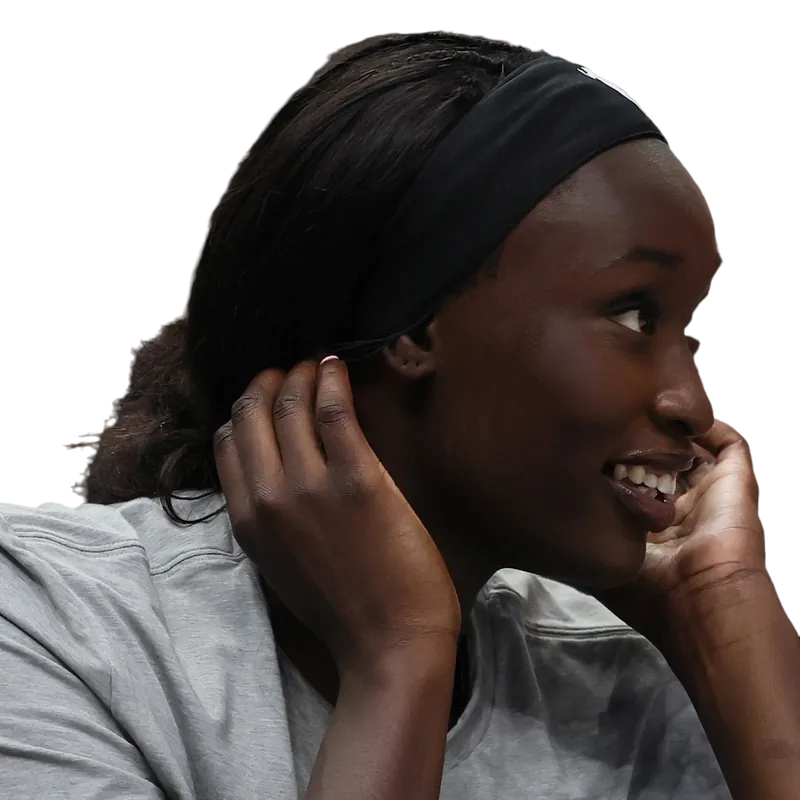
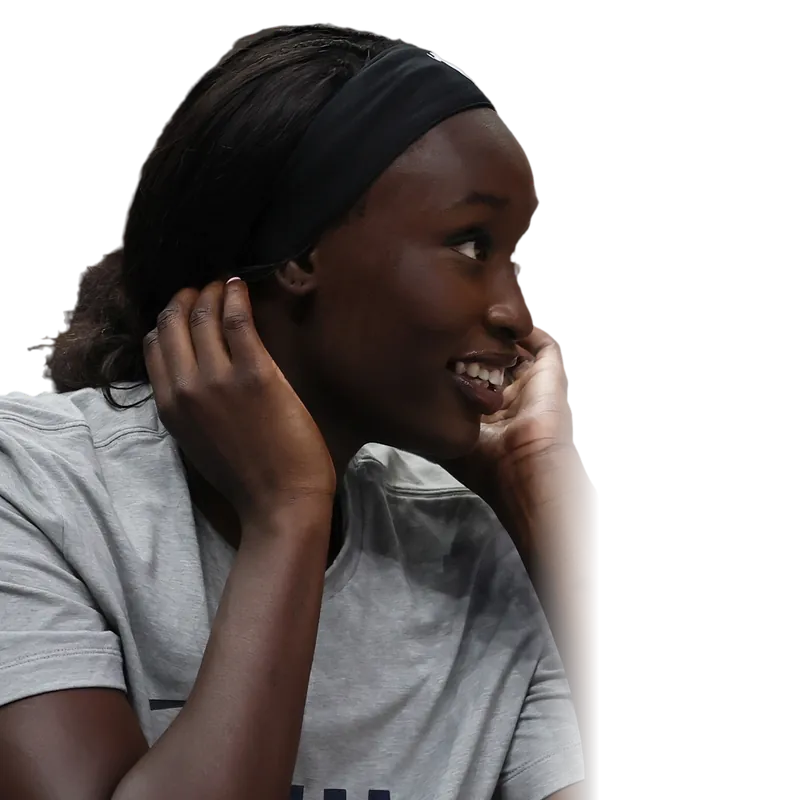
Recenter Nyadiew Puoch headshot so her face shows on mobile

diff --git a/wnba/nyadiew-puoch/index.html b/wnba/nyadiew-puoch/index.html
@@ -19,7 +19,7 @@
 })();
 </script>
 <script async src="https://pagead2.googlesyndication.com/pagead/js/adsbygoogle.js?client=ca-pub-6621195315204235" crossorigin="anonymous"></script>
-<meta name="viewport" content="width=device-width,initial-scale=1"><title>Nyadiew Puoch WNBA stats and profile | Full Court Buckets</title><meta name="description" content="Nyadiew Puoch WNBA season statistics, regular-season records, team information and recent game logs. Seasons on record: 2026. Updated by Full Court Buckets."><meta name="robots" content="index,follow,max-image-preview:large"><link rel="canonical" href="https://fullcourtbuckets.com/wnba/nyadiew-puoch/"><link rel="icon" href="/favicon.svg"><meta name="theme-color" content="#ffffff"><link rel="preconnect" href="https://fonts.googleapis.com"><link rel="preconnect" href="https://fonts.gstatic.com" crossorigin><link href="https://fonts.googleapis.com/css2?family=Barlow+Condensed:wght@500;600;700;800;900&amp;family=Inter:wght@400;500;600;700;800&amp;display=swap" rel="stylesheet"><link rel="stylesheet" href="/wnba/assets/players.css"><link rel="stylesheet" href="/assets/site-nav.css"><script type="application/ld+json">{"@context": "https://schema.org", "@graph": [{"@type": "Person", "@id": "https://fullcourtbuckets.com/wnba/nyadiew-puoch/#player", "name": "Nyadiew Puoch", "url": "https://fullcourtbuckets.com/wnba/nyadiew-puoch/", "image": {"@type": "ImageObject", "contentUrl": "https://fullcourtbuckets.com/images/players/nyadiew-puoch/portrait.webp?v=5027f9c03f29", "caption": "Nyadiew Puoch", "width": 800, "height": 800, "creditText": "John Mac via Wikimedia Commons", "license": "https://creativecommons.org/licenses/by-sa/4.0/", "acquireLicensePage": "https://commons.wikimedia.org/wiki/File:Nyadiew_Puoch_2026_(cropped).jpg"}}, {"@type": "WebPage", "name": "Nyadiew Puoch WNBA stats and profile | Full Court Buckets", "url": "https://fullcourtbuckets.com/wnba/nyadiew-puoch/", "about": {"@id": "https://fullcourtbuckets.com/wnba/nyadiew-puoch/#player"}, "dateModified": "2026-10-29"}, {"@type": "BreadcrumbList", "itemListElement": [{"@type": "ListItem", "position": 1, "name": "Home", "item": "https://fullcourtbuckets.com/"}, {"@type": "ListItem", "position": 2, "name": "Players", "item": "https://fullcourtbuckets.com/wnba/"}, {"@type": "ListItem", "position": 3, "name": "Nyadiew Puoch", "item": "https://fullcourtbuckets.com/wnba/nyadiew-puoch/"}]}, {"@type": "FAQPage", "@id": "https://fullcourtbuckets.com/wnba/nyadiew-puoch/#faq", "mainEntity": [{"@type": "Question", "name": "What are Nyadiew Puoch's stats?", "acceptedAnswer": {"@type": "Answer", "text": "In the 2026 regular season, Nyadiew Puoch averaged 4.3 points, 2.2 rebounds, and 0.8 assists in 42 games for the Portland Fire."}}, {"@type": "Question", "name": "What WNBA team does Nyadiew Puoch play for?", "acceptedAnswer": {"@type": "Answer", "text": "Nyadiew Puoch plays for the Portland Fire. The Atlanta Dream drafted her 12th overall in 2024, and Portland selected her in the 2026 WNBA Expansion Draft and signed her on April 11, 2026. She appeared in 42 games with 28 starts for Portland in 2026 and scored a career-high 19 points against Seattle on August 8."}}, {"@type": "Question", "name": "How tall is Nyadiew Puoch?", "acceptedAnswer": {"@type": "Answer", "text": "The WNBA lists Nyadiew Puoch at 6 feet 3 inches and 167 pounds."}}, {"@type": "Question", "name": "What position does Nyadiew Puoch play?", "acceptedAnswer": {"@type": "Answer", "text": "Nyadiew Puoch is a forward. She is from Australia, where she played for the Southside Flyers, Dandenong Rangers and UC Capitals."}}]}]}</script><script src="/assets/site-nav.js" defer></script><script src="/wnba/assets/players.js" defer></script><link rel="alternate" type="application/rss+xml" title="Full Court Buckets" href="https://fullcourtbuckets.com/feed.xml"><link rel="preconnect" href="https://fonts.googleapis.com"><link rel="preconnect" href="https://fonts.gstatic.com" crossorigin><link href="https://fonts.googleapis.com/css2?family=Barlow:wght@500;600;700;800&family=Inter:wght@400;500;600;700&display=swap" rel="stylesheet"><meta name="p:domain_verify" content="31768ba4e5e82ef772093f8a448d1884"/><link rel="icon" href="/favicon.ico" sizes="48x48"><link rel="icon" type="image/png" sizes="32x32" href="/favicon-32.png"><link rel="apple-touch-icon" href="/apple-touch-icon.png"><link rel="manifest" href="/site.webmanifest"><style id="fcb-shared-player-layout">/* Show the full illustration, including shoulders and upper chest. Keep the original gradient, circles and outline number. */
+<meta name="viewport" content="width=device-width,initial-scale=1"><title>Nyadiew Puoch WNBA stats and profile | Full Court Buckets</title><meta name="description" content="Nyadiew Puoch WNBA season statistics, regular-season records, team information and recent game logs. Seasons on record: 2026. Updated by Full Court Buckets."><meta name="robots" content="index,follow,max-image-preview:large"><link rel="canonical" href="https://fullcourtbuckets.com/wnba/nyadiew-puoch/"><link rel="icon" href="/favicon.svg"><meta name="theme-color" content="#ffffff"><link rel="preconnect" href="https://fonts.googleapis.com"><link rel="preconnect" href="https://fonts.gstatic.com" crossorigin><link href="https://fonts.googleapis.com/css2?family=Barlow+Condensed:wght@500;600;700;800;900&amp;family=Inter:wght@400;500;600;700;800&amp;display=swap" rel="stylesheet"><link rel="stylesheet" href="/wnba/assets/players.css"><link rel="stylesheet" href="/assets/site-nav.css"><script type="application/ld+json">{"@context": "https://schema.org", "@graph": [{"@type": "Person", "@id": "https://fullcourtbuckets.com/wnba/nyadiew-puoch/#player", "name": "Nyadiew Puoch", "url": "https://fullcourtbuckets.com/wnba/nyadiew-puoch/", "image": {"@type": "ImageObject", "contentUrl": "https://fullcourtbuckets.com/images/players/nyadiew-puoch/portrait.webp?v=2d0341a515d8", "caption": "Nyadiew Puoch", "width": 800, "height": 800, "creditText": "John Mac via Wikimedia Commons", "license": "https://creativecommons.org/licenses/by-sa/4.0/", "acquireLicensePage": "https://commons.wikimedia.org/wiki/File:Nyadiew_Puoch_2026_(cropped).jpg"}}, {"@type": "WebPage", "name": "Nyadiew Puoch WNBA stats and profile | Full Court Buckets", "url": "https://fullcourtbuckets.com/wnba/nyadiew-puoch/", "about": {"@id": "https://fullcourtbuckets.com/wnba/nyadiew-puoch/#player"}, "dateModified": "2026-10-29"}, {"@type": "BreadcrumbList", "itemListElement": [{"@type": "ListItem", "position": 1, "name": "Home", "item": "https://fullcourtbuckets.com/"}, {"@type": "ListItem", "position": 2, "name": "Players", "item": "https://fullcourtbuckets.com/wnba/"}, {"@type": "ListItem", "position": 3, "name": "Nyadiew Puoch", "item": "https://fullcourtbuckets.com/wnba/nyadiew-puoch/"}]}, {"@type": "FAQPage", "@id": "https://fullcourtbuckets.com/wnba/nyadiew-puoch/#faq", "mainEntity": [{"@type": "Question", "name": "What are Nyadiew Puoch's stats?", "acceptedAnswer": {"@type": "Answer", "text": "In the 2026 regular season, Nyadiew Puoch averaged 4.3 points, 2.2 rebounds, and 0.8 assists in 42 games for the Portland Fire."}}, {"@type": "Question", "name": "What WNBA team does Nyadiew Puoch play for?", "acceptedAnswer": {"@type": "Answer", "text": "Nyadiew Puoch plays for the Portland Fire. The Atlanta Dream drafted her 12th overall in 2024, and Portland selected her in the 2026 WNBA Expansion Draft and signed her on April 11, 2026. She appeared in 42 games with 28 starts for Portland in 2026 and scored a career-high 19 points against Seattle on August 8."}}, {"@type": "Question", "name": "How tall is Nyadiew Puoch?", "acceptedAnswer": {"@type": "Answer", "text": "The WNBA lists Nyadiew Puoch at 6 feet 3 inches and 167 pounds."}}, {"@type": "Question", "name": "What position does Nyadiew Puoch play?", "acceptedAnswer": {"@type": "Answer", "text": "Nyadiew Puoch is a forward. She is from Australia, where she played for the Southside Flyers, Dandenong Rangers and UC Capitals."}}]}]}</script><script src="/assets/site-nav.js" defer></script><script src="/wnba/assets/players.js" defer></script><link rel="alternate" type="application/rss+xml" title="Full Court Buckets" href="https://fullcourtbuckets.com/feed.xml"><link rel="preconnect" href="https://fonts.googleapis.com"><link rel="preconnect" href="https://fonts.gstatic.com" crossorigin><link href="https://fonts.googleapis.com/css2?family=Barlow:wght@500;600;700;800&family=Inter:wght@400;500;600;700&display=swap" rel="stylesheet"><meta name="p:domain_verify" content="31768ba4e5e82ef772093f8a448d1884"/><link rel="icon" href="/favicon.ico" sizes="48x48"><link rel="icon" type="image/png" sizes="32x32" href="/favicon-32.png"><link rel="apple-touch-icon" href="/apple-touch-icon.png"><link rel="manifest" href="/site.webmanifest"><style id="fcb-shared-player-layout">/* Show the full illustration, including shoulders and upper chest. Keep the original gradient, circles and outline number. */
 .fcb-player-compact .hero-main{grid-template-columns:55% 45%;min-height:0}
 .fcb-player-compact .hero-copy{padding-top:30px;padding-bottom:30px}
 .fcb-player-compact .hero-art.portrait-art{position:relative;inset:auto;margin:0;display:block;opacity:1;pointer-events:auto;background:transparent;min-height:0;min-width:0;padding:0;overflow:hidden;isolation:isolate}
@@ -116,4 +116,4 @@ html body .portrait-art .card-credit{position:absolute;left:0;right:0;bottom:6px
  .has-player-portrait .metric{padding-top:12px;padding-bottom:12px}
  .has-player-portrait .stat-context{padding-top:8px;padding-bottom:8px}
 }
-@media(prefers-reduced-motion:reduce){.portrait-art *{animation:none!important;transition:none!important}}</style><style id="fcb-photo-credit">.photo-credit{font-size:11px;line-height:1.4;color:inherit;opacity:.8}.photo-credit a{color:inherit;text-decoration:underline}</style></head><body><a class="skip" href="#content">Skip to content</a><header class="site-header"><div class="site-bar"><a class="site-brand" href="/" aria-label="Full Court Buckets home"><picture><source srcset="/logo.svg" type="image/svg+xml"><source srcset="/logo-c.webp" type="image/webp"><img src="/logo-c.png" alt="Full Court Buckets" width="480" height="416" decoding="async" fetchpriority="high"></picture></a><div class="site-tools"><div class="site-search"><button type="button" class="site-search-toggle" aria-expanded="false" aria-controls="site-search-panel" aria-keyshortcuts="/"><span class="site-search-icon" aria-hidden="true"></span><span class="site-search-label">Search</span></button><div class="site-search-panel" id="site-search-panel" hidden><form role="search" action="/search/"><label class="site-search-field">Search Full Court Buckets<input type="search" name="q" placeholder="Players, teams, owners, stories" autocomplete="off" spellcheck="false" role="combobox" aria-autocomplete="list" aria-expanded="false" aria-controls="site-search-list"></label></form><p class="site-search-status" role="status"></p><p class="ss-dym" hidden>Did you mean <a href="/search/"></a>?</p><ul class="site-search-results" id="site-search-list" role="listbox"></ul><a class="ss-all" href="/search/" hidden>See all results</a></div><template id="site-search-item"><li class="ss-item" role="option"><a class="ss-link"><span class="ss-thumb"><img alt="" width="48" height="27" loading="lazy" decoding="async"></span><span class="ss-text"><span class="site-search-title"></span><span class="ss-snippet"></span><span class="site-search-kind"></span></span></a></li></template><template id="site-search-group"><li class="ss-group" role="presentation"></li></template><template id="site-search-mark"><mark></mark></template></div><nav class="site-nav" aria-label="Main"><button type="button" class="site-nav-toggle" aria-expanded="false" aria-controls="site-nav-menu"><span class="site-nav-bars" aria-hidden="true"></span><span class="site-nav-toggle-label">Menu</span></button><ul id="site-nav-menu"><li><a href="/">Home</a></li><li><a href="/news/">News</a></li><li class="site-nav-playoffs"><a href="/news/wnba-finals-2026-schedule-dream-valkyries/">Playoffs</a></li><li class="site-nav-branch"><a href="/wnba/">Players</a><button type="button" class="site-nav-subtoggle" aria-expanded="false" aria-controls="site-nav-sub-players" data-section="Players"><span class="site-nav-chevron" aria-hidden="true"></span><span class="site-nav-subtoggle-label">Show Players menu</span></button><ul id="site-nav-sub-players"><li><a href="/wnba/">Player index, A to Z</a></li><li><a href="/wnba/aja-wilson/">A&#x27;ja Wilson</a></li><li><a href="/wnba/caitlin-clark/">Caitlin Clark</a></li><li><a href="/wnba/angel-reese/">Angel Reese</a></li><li><a href="/wnba/paige-bueckers/">Paige Bueckers</a></li><li><a href="/wnba/breanna-stewart/">Breanna Stewart</a></li><li><a href="/wnba/sabrina-ionescu/">Sabrina Ionescu</a></li></ul></li><li class="site-nav-branch"><a href="/wnba/teams/">Teams</a><button type="button" class="site-nav-subtoggle" aria-expanded="false" aria-controls="site-nav-sub-teams" data-section="Teams"><span class="site-nav-chevron" aria-hidden="true"></span><span class="site-nav-subtoggle-label">Show Teams menu</span></button><ul id="site-nav-sub-teams"><li><a href="/wnba/teams/atlanta-dream/">Atlanta Dream</a></li><li><a href="/wnba/teams/chicago-sky/">Chicago Sky</a></li><li><a href="/wnba/teams/connecticut-sun/">Connecticut Sun</a></li><li><a href="/wnba/teams/dallas-wings/">Dallas Wings</a></li><li><a href="/wnba/teams/golden-state-valkyries/">Golden State Valkyries</a></li><li><a href="/wnba/teams/indiana-fever/">Indiana Fever</a></li><li><a href="/wnba/teams/las-vegas-aces/">Las Vegas Aces</a></li><li><a href="/wnba/teams/los-angeles-sparks/">Los Angeles Sparks</a></li><li><a href="/wnba/teams/minnesota-lynx/">Minnesota Lynx</a></li><li><a href="/wnba/teams/new-york-liberty/">New York Liberty</a></li><li><a href="/wnba/teams/phoenix-mercury/">Phoenix Mercury</a></li><li><a href="/wnba/teams/portland-fire/">Portland Fire</a></li><li><a href="/wnba/teams/seattle-storm/">Seattle Storm</a></li><li><a href="/wnba/teams/toronto-tempo/">Toronto Tempo</a></li><li><a href="/wnba/teams/washington-mystics/">Washington Mystics</a></li></ul></li><li><a href="/standings/">Standings</a></li><li><a href="/wnba/data/">Data &amp; research</a></li><li class="site-nav-branch"><a href="/about/">About</a><button type="button" class="site-nav-subtoggle" aria-expanded="false" aria-controls="site-nav-sub-about" data-section="About"><span class="site-nav-chevron" aria-hidden="true"></span><span class="site-nav-subtoggle-label">Show About menu</span></button><ul id="site-nav-sub-about"><li><a href="/methods/">How we calculate</a></li><li><a href="/contact/">Contact</a></li></ul></li></ul></nav></div></div></header><div class="ticker fcb-now" data-item-date="2026-11-10"><div class="shell ticker-shell"><div class="ticker-label">New</div><div class="ticker-text"><a href="/news/juste-jocyte-does-not-want-to-return-valkyries/">Juste Jocyte tells BasketNews she does not want to return to the Valkyries. BasketNews and LRT quote Jocyte saying she does not want to return to the Valkyries. Her first WNBA season was 16 games at 8.1 minutes.</a></div></div></div><main id="content" class="wrap"><div class="breadcrumbs"><a href="/">Home</a><span>/</span><a href="/wnba/">Players</a><span>/</span><span>Nyadiew Puoch</span></div><section class="hero has-player-portrait fcb-player-compact" aria-labelledby="player-name" data-name-size="normal"><div class="hero-main"><div class="hero-copy"><div class="hero-kicker"><span class="status">Listed active</span><span>WNBA PLAYER PROFILE</span></div><h1 id="player-name"><span>Nyadiew</span> <b class="gradient">Puoch</b></h1><p class="answer-summary">Nyadiew Puoch is a forward for the Portland Fire. In the 2026 season she averaged 4.3 points, 2.2 rebounds and 0.8 assists in 42 games.</p><p class="stats-updated">Stats updated October 29, 2026. Full Court Buckets gathers its own game data and verifies it.</p><p class="hero-meta">#13 / Forward / Portland Fire</p><div class="actions"><a class="button" href="#stats">View stats <span>→</span></a><button type="button" id="share" class="text-button js-only">Share ↑</button><span id="share-status" role="status"></span></div></div><!-- FCB:approved-portrait:start --><figure class="hero-art portrait-art" aria-label="Nyadiew Puoch"><div class="portrait-backdrop" aria-hidden="true"><span class="ghost-number">13</span></div><div class="portrait-crop"><img class="player-illustration" src="/images/players/nyadiew-puoch/portrait.webp?v=5027f9c03f29" alt="Nyadiew Puoch" width="800" height="800" fetchpriority="high" decoding="async"></div></figure><!-- FCB:approved-portrait:end --></div><div class="hero-stats"><div class="metric"><strong>4.3</strong><span>POINTS<small>PER GAME</small></span></div><div class="metric"><strong>0.8</strong><span>ASSISTS<small>PER GAME</small></span></div><div class="metric"><strong>2.2</strong><span>REBOUNDS<small>PER GAME</small></span></div><div class="stat-context"><b>2026 · regular season</b><span>Per-game averages</span></div></div></section><nav class="section-nav" aria-label="On this page"><a href="#stats">Stats</a><a href="#teammates">Teammates</a><a href="#overview">Overview</a><a href="#teams">Teams</a><a href="#sources">Sources</a></nav><div class="content-grid"><div><section class="section" id="stats"><p class="eyebrow">The numbers</p><h2>Season-by-season stats</h2><div class="filters js-only"><div class="segmented" role="group" aria-label="Competition"><button type="button" data-kind="2" aria-pressed="false">Regular season</button><button type="button" data-kind="all" aria-pressed="true">Both</button></div><label>Season <select id="season-filter"><option value="all">All seasons</option><option value="2026">2026</option></select></label></div><div class="competition" data-competition="2"><h3>Regular season</h3><div class="table-scroll" role="region" aria-label="Regular season season statistics" tabindex="0"><table><caption>Regular season: per-game averages, except games played and shooting percentages.</caption><thead><tr><th scope="col">YEAR</th><th scope="col">TEAM</th><th scope="col"><abbr title="Games played">GP</abbr></th><th scope="col"><abbr title="Minutes per game">MIN</abbr></th><th scope="col"><abbr title="Points per game">PTS</abbr></th><th scope="col"><abbr title="Rebounds per game">REB</abbr></th><th scope="col"><abbr title="Assists per game">AST</abbr></th><th scope="col"><abbr title="Steals per game">STL</abbr></th><th scope="col"><abbr title="Blocks per game">BLK</abbr></th><th scope="col"><abbr title="Turnovers per game">TO</abbr></th><th scope="col"><abbr title="Field goal percentage">FG%</abbr></th><th scope="col"><abbr title="Three-point percentage">3P%</abbr></th><th scope="col"><abbr title="Free throw percentage">FT%</abbr></th></tr></thead><tbody><tr data-season="2026"><th scope="row">2026</th><td class="team-cell">Portland Fire</td><td>42</td><td>18.5</td><td>4.3</td><td>2.2</td><td>0.8</td><td>0.7</td><td>0.1</td><td>0.6</td><td>36.6</td><td>24.4</td><td>63.9</td></tr></tbody></table></div></div><p id="stats-empty" class="muted" hidden>No records for this selection.</p><p class="muted small">Statistics since 2008. Each season stays with the team she played for that year. These figures are season averages, not a full career total.</p></section><p class="ai-note">Built by Full Court Buckets from game data we gather and verify ourselves. Profile text and FAQs drafted with AI tools and checked against the stats on this page. Portrait is a photograph. <span class="photo-credit">Photo: <a href="https://commons.wikimedia.org/wiki/File:Nyadiew_Puoch_2026_(cropped).jpg" rel="noopener" target="_blank">John Mac</a>, <a href="https://creativecommons.org/licenses/by-sa/4.0/" rel="license noopener" target="_blank">CC BY-SA 4.0</a>, via Wikimedia Commons, cropped, background removed.</span> <a href="/how-we-make-full-court-buckets/">How we make Full Court Buckets</a></p><section class="section" id="teammates"><p class="eyebrow">Same roster</p><h2>Teammates</h2><p>Some of the other players listed on this roster.</p><ul class="teammate-list"><li><a class="inline-link" href="/wnba/amy-okonkwo/">Amy Okonkwo</a></li><li><a class="inline-link" href="/wnba/bridget-carleton/">Bridget Carleton</a></li><li><a class="inline-link" href="/wnba/carla-leite/">Carla Leite</a></li><li><a class="inline-link" href="/wnba/charisma-osborne/">Charisma Osborne</a></li><li><a class="inline-link" href="/wnba/emily-engstler/">Emily Engstler</a></li><li><a class="inline-link" href="/wnba/frieda-buhner/">Frieda Buhner</a></li><li><a class="inline-link" href="/wnba/holly-winterburn/">Holly Winterburn</a></li></ul></section><section class="section" id="overview"><p class="eyebrow">Player overview</p><h2>Nyadiew Puoch</h2><p>Nyadiew Puoch averaged 4.3 points, 2.2 rebounds and 0.8 assists in 42 games in the 2026 regular season.</p><p class="muted">Current team: <strong><a class="inline-link" href="/wnba/teams/portland-fire/">Portland Fire</a></strong>.</p><h3>Career notes</h3><ul class="career-notes"><li>Nyadiew Puoch scored 181 points, 91 rebounds and 32 assists in 42 games for the Portland Fire in 2026. <a href="/data/wnba/players/nyadiew-puoch.json">Full Court Buckets season log</a>.</li><li>The 2026 regular season is the only regular-season line for Nyadiew Puoch in the Full Court Buckets season log. <a href="/data/wnba/players/nyadiew-puoch.json">Full Court Buckets season log</a>.</li></ul><div class="overview-strip"><div><b>1</b><span>Regular seasons on record</span></div><div><b>2026</b><span>Available statistical years</span></div></div></section><section class="section" id="teams"><p class="eyebrow">Team records</p><h2>Teams by season</h2><p class="muted small">The team she played for in each season. This is not every roster move.</p><ul class="timeline"><li><strong>2026</strong><span>Portland Fire</span></li></ul></section></div><aside><section class="side-card"><p class="eyebrow">The essentials</p><h2>Player details</h2><dl><div><dt>Roster</dt><dd>On the current roster</dd></div><div><dt>Records available</dt><dd>2026</dd></div><div><dt>Current team</dt><dd>Portland Fire</dd></div><div><dt>Position</dt><dd>F</dd></div><div><dt>Height</dt><dd>6&#x27; 3&quot;</dd></div><div><dt>Jersey number</dt><dd>13</dd></div></dl></section><section class="freshness"><p class="eyebrow">Page status</p><h3>Last updated</h3><p>October 29, 2026.</p><p class="small">Refreshed through the season, then less often once the season ends.</p></section><a class="button wide" href="/wnba/">Explore WNBA players →</a></aside></div><section class="section" id="faq"><p class="eyebrow">Player FAQ</p><h2>Frequently asked questions</h2><div class="faq-item"><h3>What are Nyadiew Puoch&#x27;s stats?</h3><p>In the 2026 regular season, Nyadiew Puoch averaged 4.3 points, 2.2 rebounds, and 0.8 assists in 42 games for the Portland Fire.</p></div><div class="faq-item"><h3>What WNBA team does Nyadiew Puoch play for?</h3><p>Nyadiew Puoch plays for the Portland Fire. The Atlanta Dream drafted her 12th overall in 2024, and Portland selected her in the 2026 WNBA Expansion Draft and signed her on April 11, 2026. She appeared in 42 games with 28 starts for Portland in 2026 and scored a career-high 19 points against Seattle on August 8.</p></div><div class="faq-item"><h3>How tall is Nyadiew Puoch?</h3><p>The WNBA lists Nyadiew Puoch at 6 feet 3 inches and 167 pounds.</p></div><div class="faq-item"><h3>What position does Nyadiew Puoch play?</h3><p>Nyadiew Puoch is a forward. She is from Australia, where she played for the Southside Flyers, Dandenong Rangers and UC Capitals.</p></div></section><details class="sources section" id="sources"><summary>About these numbers</summary><p class="photo-credit-source">Photo: <a href="https://commons.wikimedia.org/wiki/File:Nyadiew_Puoch_2026_(cropped).jpg" rel="noopener" target="_blank">John Mac</a>, <a href="https://creativecommons.org/licenses/by-sa/4.0/" rel="license noopener" target="_blank">CC BY-SA 4.0</a>, via Wikimedia Commons, cropped, background removed.</p><p>Season statistics and recent games are listed on this page. Player ID: 61828.</p><p>Last updated October 29, 2026. A later game may not be on the page yet.</p><p>Numbers on this page start in 2008. Regular-season and playoff statistics are listed separately. Season averages are not turned into a career total. A missing number is shown as a dash and is not turned into zero.</p><p>Height, college and similar details appear only when they are clear. Not appearing on a current roster is not the same as retirement. A new team listed here is not labeled as a trade or a signing.</p><p>This profile does not include news stories or a list of trades and signings.</p><a href="/data/wnba/players/nyadiew-puoch.json">View player data</a></details><section class="archive-band"><div><p class="eyebrow">Full Court Buckets · Player archive</p><h2>WNBA players. Past and present.</h2><p>Explore the available records from 2008 onward.</p></div><a class="button" href="/wnba/">Browse players →</a></section></main><footer class="site-footer"><div class="wrap"><p><b>Full Court Buckets</b>. Independent WNBA news, analysis and commentary. Not affiliated with or endorsed by the WNBA.</p><p class="footer-links"><a href="/wnba/">Players</a><a href="/standings/">Standings</a><a href="/about/">About</a><a href="/how-we-make-full-court-buckets/">How we make Full Court Buckets</a><a href="/methods/">How we calculate</a><a href="/contact/">Contact</a><a href="/privacy/">Privacy Policy</a><a href="/terms/">Terms of Use</a><a href="/sitemap/">Site map</a><a href="/privacy/" onclick="if(window.googlefc&amp;&amp;googlefc.showRevocationMessage){googlefc.showRevocationMessage();return false;}">Privacy and cookie settings</a><a href="/privacy/#us-state-privacy">Do not sell or share my personal information</a><a class="footer-tiktok" href="https://www.tiktok.com/@fullcourtbuckets" target="_blank" rel="noopener me"><svg class="tiktok-icon" xmlns="http://www.w3.org/2000/svg" viewBox="0 0 24 24" width="16" height="16" aria-hidden="true" focusable="false"><path fill="currentColor" d="M12.525.02c1.31-.02 2.61-.01 3.91-.02.08 1.53.63 3.09 1.75 4.17 1.12 1.11 2.7 1.62 4.24 1.79v4.03c-1.44-.05-2.89-.35-4.2-.97-.57-.26-1.1-.59-1.62-.93-.01 2.92.01 5.84-.02 8.75-.08 1.4-.54 2.79-1.35 3.94-1.31 1.92-3.58 3.17-5.91 3.21-1.43.08-2.86-.31-4.08-1.03-2.02-1.19-3.44-3.37-3.65-5.71-.02-.5-.03-1-.01-1.49.18-1.9 1.12-3.72 2.58-4.96 1.66-1.44 3.98-2.13 6.15-1.72.02 1.48-.04 2.96-.04 4.44-.99-.32-2.15-.23-3.02.37-.63.41-1.11 1.04-1.36 1.75-.21.51-.15 1.07-.14 1.61.24 1.64 1.82 3.02 3.5 2.87 1.12-.01 2.19-.66 2.77-1.61.19-.33.4-.67.41-1.06.1-1.79.06-3.57.07-5.36.01-4.03-.01-8.05.02-12.07z"/></svg>Follow us</a></p><p>&copy; 2026 Full Court Buckets</p></div></footer></body></html>
+@media(prefers-reduced-motion:reduce){.portrait-art *{animation:none!important;transition:none!important}}</style><style id="fcb-photo-credit">.photo-credit{font-size:11px;line-height:1.4;color:inherit;opacity:.8}.photo-credit a{color:inherit;text-decoration:underline}</style></head><body><a class="skip" href="#content">Skip to content</a><header class="site-header"><div class="site-bar"><a class="site-brand" href="/" aria-label="Full Court Buckets home"><picture><source srcset="/logo.svg" type="image/svg+xml"><source srcset="/logo-c.webp" type="image/webp"><img src="/logo-c.png" alt="Full Court Buckets" width="480" height="416" decoding="async" fetchpriority="high"></picture></a><div class="site-tools"><div class="site-search"><button type="button" class="site-search-toggle" aria-expanded="false" aria-controls="site-search-panel" aria-keyshortcuts="/"><span class="site-search-icon" aria-hidden="true"></span><span class="site-search-label">Search</span></button><div class="site-search-panel" id="site-search-panel" hidden><form role="search" action="/search/"><label class="site-search-field">Search Full Court Buckets<input type="search" name="q" placeholder="Players, teams, owners, stories" autocomplete="off" spellcheck="false" role="combobox" aria-autocomplete="list" aria-expanded="false" aria-controls="site-search-list"></label></form><p class="site-search-status" role="status"></p><p class="ss-dym" hidden>Did you mean <a href="/search/"></a>?</p><ul class="site-search-results" id="site-search-list" role="listbox"></ul><a class="ss-all" href="/search/" hidden>See all results</a></div><template id="site-search-item"><li class="ss-item" role="option"><a class="ss-link"><span class="ss-thumb"><img alt="" width="48" height="27" loading="lazy" decoding="async"></span><span class="ss-text"><span class="site-search-title"></span><span class="ss-snippet"></span><span class="site-search-kind"></span></span></a></li></template><template id="site-search-group"><li class="ss-group" role="presentation"></li></template><template id="site-search-mark"><mark></mark></template></div><nav class="site-nav" aria-label="Main"><button type="button" class="site-nav-toggle" aria-expanded="false" aria-controls="site-nav-menu"><span class="site-nav-bars" aria-hidden="true"></span><span class="site-nav-toggle-label">Menu</span></button><ul id="site-nav-menu"><li><a href="/">Home</a></li><li><a href="/news/">News</a></li><li class="site-nav-playoffs"><a href="/news/wnba-finals-2026-schedule-dream-valkyries/">Playoffs</a></li><li class="site-nav-branch"><a href="/wnba/">Players</a><button type="button" class="site-nav-subtoggle" aria-expanded="false" aria-controls="site-nav-sub-players" data-section="Players"><span class="site-nav-chevron" aria-hidden="true"></span><span class="site-nav-subtoggle-label">Show Players menu</span></button><ul id="site-nav-sub-players"><li><a href="/wnba/">Player index, A to Z</a></li><li><a href="/wnba/aja-wilson/">A&#x27;ja Wilson</a></li><li><a href="/wnba/caitlin-clark/">Caitlin Clark</a></li><li><a href="/wnba/angel-reese/">Angel Reese</a></li><li><a href="/wnba/paige-bueckers/">Paige Bueckers</a></li><li><a href="/wnba/breanna-stewart/">Breanna Stewart</a></li><li><a href="/wnba/sabrina-ionescu/">Sabrina Ionescu</a></li></ul></li><li class="site-nav-branch"><a href="/wnba/teams/">Teams</a><button type="button" class="site-nav-subtoggle" aria-expanded="false" aria-controls="site-nav-sub-teams" data-section="Teams"><span class="site-nav-chevron" aria-hidden="true"></span><span class="site-nav-subtoggle-label">Show Teams menu</span></button><ul id="site-nav-sub-teams"><li><a href="/wnba/teams/atlanta-dream/">Atlanta Dream</a></li><li><a href="/wnba/teams/chicago-sky/">Chicago Sky</a></li><li><a href="/wnba/teams/connecticut-sun/">Connecticut Sun</a></li><li><a href="/wnba/teams/dallas-wings/">Dallas Wings</a></li><li><a href="/wnba/teams/golden-state-valkyries/">Golden State Valkyries</a></li><li><a href="/wnba/teams/indiana-fever/">Indiana Fever</a></li><li><a href="/wnba/teams/las-vegas-aces/">Las Vegas Aces</a></li><li><a href="/wnba/teams/los-angeles-sparks/">Los Angeles Sparks</a></li><li><a href="/wnba/teams/minnesota-lynx/">Minnesota Lynx</a></li><li><a href="/wnba/teams/new-york-liberty/">New York Liberty</a></li><li><a href="/wnba/teams/phoenix-mercury/">Phoenix Mercury</a></li><li><a href="/wnba/teams/portland-fire/">Portland Fire</a></li><li><a href="/wnba/teams/seattle-storm/">Seattle Storm</a></li><li><a href="/wnba/teams/toronto-tempo/">Toronto Tempo</a></li><li><a href="/wnba/teams/washington-mystics/">Washington Mystics</a></li></ul></li><li><a href="/standings/">Standings</a></li><li><a href="/wnba/data/">Data &amp; research</a></li><li class="site-nav-branch"><a href="/about/">About</a><button type="button" class="site-nav-subtoggle" aria-expanded="false" aria-controls="site-nav-sub-about" data-section="About"><span class="site-nav-chevron" aria-hidden="true"></span><span class="site-nav-subtoggle-label">Show About menu</span></button><ul id="site-nav-sub-about"><li><a href="/methods/">How we calculate</a></li><li><a href="/contact/">Contact</a></li></ul></li></ul></nav></div></div></header><div class="ticker fcb-now" data-item-date="2026-11-10"><div class="shell ticker-shell"><div class="ticker-label">New</div><div class="ticker-text"><a href="/news/juste-jocyte-does-not-want-to-return-valkyries/">Juste Jocyte tells BasketNews she does not want to return to the Valkyries. BasketNews and LRT quote Jocyte saying she does not want to return to the Valkyries. Her first WNBA season was 16 games at 8.1 minutes.</a></div></div></div><main id="content" class="wrap"><div class="breadcrumbs"><a href="/">Home</a><span>/</span><a href="/wnba/">Players</a><span>/</span><span>Nyadiew Puoch</span></div><section class="hero has-player-portrait fcb-player-compact" aria-labelledby="player-name" data-name-size="normal"><div class="hero-main"><div class="hero-copy"><div class="hero-kicker"><span class="status">Listed active</span><span>WNBA PLAYER PROFILE</span></div><h1 id="player-name"><span>Nyadiew</span> <b class="gradient">Puoch</b></h1><p class="answer-summary">Nyadiew Puoch is a forward for the Portland Fire. In the 2026 season she averaged 4.3 points, 2.2 rebounds and 0.8 assists in 42 games.</p><p class="stats-updated">Stats updated October 29, 2026. Full Court Buckets gathers its own game data and verifies it.</p><p class="hero-meta">#13 / Forward / Portland Fire</p><div class="actions"><a class="button" href="#stats">View stats <span>→</span></a><button type="button" id="share" class="text-button js-only">Share ↑</button><span id="share-status" role="status"></span></div></div><!-- FCB:approved-portrait:start --><figure class="hero-art portrait-art" aria-label="Nyadiew Puoch"><div class="portrait-backdrop" aria-hidden="true"><span class="ghost-number">13</span></div><div class="portrait-crop"><img class="player-illustration" src="/images/players/nyadiew-puoch/portrait.webp?v=2d0341a515d8" alt="Nyadiew Puoch" width="800" height="800" fetchpriority="high" decoding="async"></div></figure><!-- FCB:approved-portrait:end --></div><div class="hero-stats"><div class="metric"><strong>4.3</strong><span>POINTS<small>PER GAME</small></span></div><div class="metric"><strong>0.8</strong><span>ASSISTS<small>PER GAME</small></span></div><div class="metric"><strong>2.2</strong><span>REBOUNDS<small>PER GAME</small></span></div><div class="stat-context"><b>2026 · regular season</b><span>Per-game averages</span></div></div></section><nav class="section-nav" aria-label="On this page"><a href="#stats">Stats</a><a href="#teammates">Teammates</a><a href="#overview">Overview</a><a href="#teams">Teams</a><a href="#sources">Sources</a></nav><div class="content-grid"><div><section class="section" id="stats"><p class="eyebrow">The numbers</p><h2>Season-by-season stats</h2><div class="filters js-only"><div class="segmented" role="group" aria-label="Competition"><button type="button" data-kind="2" aria-pressed="false">Regular season</button><button type="button" data-kind="all" aria-pressed="true">Both</button></div><label>Season <select id="season-filter"><option value="all">All seasons</option><option value="2026">2026</option></select></label></div><div class="competition" data-competition="2"><h3>Regular season</h3><div class="table-scroll" role="region" aria-label="Regular season season statistics" tabindex="0"><table><caption>Regular season: per-game averages, except games played and shooting percentages.</caption><thead><tr><th scope="col">YEAR</th><th scope="col">TEAM</th><th scope="col"><abbr title="Games played">GP</abbr></th><th scope="col"><abbr title="Minutes per game">MIN</abbr></th><th scope="col"><abbr title="Points per game">PTS</abbr></th><th scope="col"><abbr title="Rebounds per game">REB</abbr></th><th scope="col"><abbr title="Assists per game">AST</abbr></th><th scope="col"><abbr title="Steals per game">STL</abbr></th><th scope="col"><abbr title="Blocks per game">BLK</abbr></th><th scope="col"><abbr title="Turnovers per game">TO</abbr></th><th scope="col"><abbr title="Field goal percentage">FG%</abbr></th><th scope="col"><abbr title="Three-point percentage">3P%</abbr></th><th scope="col"><abbr title="Free throw percentage">FT%</abbr></th></tr></thead><tbody><tr data-season="2026"><th scope="row">2026</th><td class="team-cell">Portland Fire</td><td>42</td><td>18.5</td><td>4.3</td><td>2.2</td><td>0.8</td><td>0.7</td><td>0.1</td><td>0.6</td><td>36.6</td><td>24.4</td><td>63.9</td></tr></tbody></table></div></div><p id="stats-empty" class="muted" hidden>No records for this selection.</p><p class="muted small">Statistics since 2008. Each season stays with the team she played for that year. These figures are season averages, not a full career total.</p></section><p class="ai-note">Built by Full Court Buckets from game data we gather and verify ourselves. Profile text and FAQs drafted with AI tools and checked against the stats on this page. Portrait is a photograph. <span class="photo-credit">Photo: <a href="https://commons.wikimedia.org/wiki/File:Nyadiew_Puoch_2026_(cropped).jpg" rel="noopener" target="_blank">John Mac</a>, <a href="https://creativecommons.org/licenses/by-sa/4.0/" rel="license noopener" target="_blank">CC BY-SA 4.0</a>, via Wikimedia Commons, cropped, background removed.</span> <a href="/how-we-make-full-court-buckets/">How we make Full Court Buckets</a></p><section class="section" id="teammates"><p class="eyebrow">Same roster</p><h2>Teammates</h2><p>Some of the other players listed on this roster.</p><ul class="teammate-list"><li><a class="inline-link" href="/wnba/amy-okonkwo/">Amy Okonkwo</a></li><li><a class="inline-link" href="/wnba/bridget-carleton/">Bridget Carleton</a></li><li><a class="inline-link" href="/wnba/carla-leite/">Carla Leite</a></li><li><a class="inline-link" href="/wnba/charisma-osborne/">Charisma Osborne</a></li><li><a class="inline-link" href="/wnba/emily-engstler/">Emily Engstler</a></li><li><a class="inline-link" href="/wnba/frieda-buhner/">Frieda Buhner</a></li><li><a class="inline-link" href="/wnba/holly-winterburn/">Holly Winterburn</a></li></ul></section><section class="section" id="overview"><p class="eyebrow">Player overview</p><h2>Nyadiew Puoch</h2><p>Nyadiew Puoch averaged 4.3 points, 2.2 rebounds and 0.8 assists in 42 games in the 2026 regular season.</p><p class="muted">Current team: <strong><a class="inline-link" href="/wnba/teams/portland-fire/">Portland Fire</a></strong>.</p><h3>Career notes</h3><ul class="career-notes"><li>Nyadiew Puoch scored 181 points, 91 rebounds and 32 assists in 42 games for the Portland Fire in 2026. <a href="/data/wnba/players/nyadiew-puoch.json">Full Court Buckets season log</a>.</li><li>The 2026 regular season is the only regular-season line for Nyadiew Puoch in the Full Court Buckets season log. <a href="/data/wnba/players/nyadiew-puoch.json">Full Court Buckets season log</a>.</li></ul><div class="overview-strip"><div><b>1</b><span>Regular seasons on record</span></div><div><b>2026</b><span>Available statistical years</span></div></div></section><section class="section" id="teams"><p class="eyebrow">Team records</p><h2>Teams by season</h2><p class="muted small">The team she played for in each season. This is not every roster move.</p><ul class="timeline"><li><strong>2026</strong><span>Portland Fire</span></li></ul></section></div><aside><section class="side-card"><p class="eyebrow">The essentials</p><h2>Player details</h2><dl><div><dt>Roster</dt><dd>On the current roster</dd></div><div><dt>Records available</dt><dd>2026</dd></div><div><dt>Current team</dt><dd>Portland Fire</dd></div><div><dt>Position</dt><dd>F</dd></div><div><dt>Height</dt><dd>6&#x27; 3&quot;</dd></div><div><dt>Jersey number</dt><dd>13</dd></div></dl></section><section class="freshness"><p class="eyebrow">Page status</p><h3>Last updated</h3><p>October 29, 2026.</p><p class="small">Refreshed through the season, then less often once the season ends.</p></section><a class="button wide" href="/wnba/">Explore WNBA players →</a></aside></div><section class="section" id="faq"><p class="eyebrow">Player FAQ</p><h2>Frequently asked questions</h2><div class="faq-item"><h3>What are Nyadiew Puoch&#x27;s stats?</h3><p>In the 2026 regular season, Nyadiew Puoch averaged 4.3 points, 2.2 rebounds, and 0.8 assists in 42 games for the Portland Fire.</p></div><div class="faq-item"><h3>What WNBA team does Nyadiew Puoch play for?</h3><p>Nyadiew Puoch plays for the Portland Fire. The Atlanta Dream drafted her 12th overall in 2024, and Portland selected her in the 2026 WNBA Expansion Draft and signed her on April 11, 2026. She appeared in 42 games with 28 starts for Portland in 2026 and scored a career-high 19 points against Seattle on August 8.</p></div><div class="faq-item"><h3>How tall is Nyadiew Puoch?</h3><p>The WNBA lists Nyadiew Puoch at 6 feet 3 inches and 167 pounds.</p></div><div class="faq-item"><h3>What position does Nyadiew Puoch play?</h3><p>Nyadiew Puoch is a forward. She is from Australia, where she played for the Southside Flyers, Dandenong Rangers and UC Capitals.</p></div></section><details class="sources section" id="sources"><summary>About these numbers</summary><p class="photo-credit-source">Photo: <a href="https://commons.wikimedia.org/wiki/File:Nyadiew_Puoch_2026_(cropped).jpg" rel="noopener" target="_blank">John Mac</a>, <a href="https://creativecommons.org/licenses/by-sa/4.0/" rel="license noopener" target="_blank">CC BY-SA 4.0</a>, via Wikimedia Commons, cropped, background removed.</p><p>Season statistics and recent games are listed on this page. Player ID: 61828.</p><p>Last updated October 29, 2026. A later game may not be on the page yet.</p><p>Numbers on this page start in 2008. Regular-season and playoff statistics are listed separately. Season averages are not turned into a career total. A missing number is shown as a dash and is not turned into zero.</p><p>Height, college and similar details appear only when they are clear. Not appearing on a current roster is not the same as retirement. A new team listed here is not labeled as a trade or a signing.</p><p>This profile does not include news stories or a list of trades and signings.</p><a href="/data/wnba/players/nyadiew-puoch.json">View player data</a></details><section class="archive-band"><div><p class="eyebrow">Full Court Buckets · Player archive</p><h2>WNBA players. Past and present.</h2><p>Explore the available records from 2008 onward.</p></div><a class="button" href="/wnba/">Browse players →</a></section></main><footer class="site-footer"><div class="wrap"><p><b>Full Court Buckets</b>. Independent WNBA news, analysis and commentary. Not affiliated with or endorsed by the WNBA.</p><p class="footer-links"><a href="/wnba/">Players</a><a href="/standings/">Standings</a><a href="/about/">About</a><a href="/how-we-make-full-court-buckets/">How we make Full Court Buckets</a><a href="/methods/">How we calculate</a><a href="/contact/">Contact</a><a href="/privacy/">Privacy Policy</a><a href="/terms/">Terms of Use</a><a href="/sitemap/">Site map</a><a href="/privacy/" onclick="if(window.googlefc&amp;&amp;googlefc.showRevocationMessage){googlefc.showRevocationMessage();return false;}">Privacy and cookie settings</a><a href="/privacy/#us-state-privacy">Do not sell or share my personal information</a><a class="footer-tiktok" href="https://www.tiktok.com/@fullcourtbuckets" target="_blank" rel="noopener me"><svg class="tiktok-icon" xmlns="http://www.w3.org/2000/svg" viewBox="0 0 24 24" width="16" height="16" aria-hidden="true" focusable="false"><path fill="currentColor" d="M12.525.02c1.31-.02 2.61-.01 3.91-.02.08 1.53.63 3.09 1.75 4.17 1.12 1.11 2.7 1.62 4.24 1.79v4.03c-1.44-.05-2.89-.35-4.2-.97-.57-.26-1.1-.59-1.62-.93-.01 2.92.01 5.84-.02 8.75-.08 1.4-.54 2.79-1.35 3.94-1.31 1.92-3.58 3.17-5.91 3.21-1.43.08-2.86-.31-4.08-1.03-2.02-1.19-3.44-3.37-3.65-5.71-.02-.5-.03-1-.01-1.49.18-1.9 1.12-3.72 2.58-4.96 1.66-1.44 3.98-2.13 6.15-1.72.02 1.48-.04 2.96-.04 4.44-.99-.32-2.15-.23-3.02.37-.63.41-1.11 1.04-1.36 1.75-.21.51-.15 1.07-.14 1.61.24 1.64 1.82 3.02 3.5 2.87 1.12-.01 2.19-.66 2.77-1.61.19-.33.4-.67.41-1.06.1-1.79.06-3.57.07-5.36.01-4.03-.01-8.05.02-12.07z"/></svg>Follow us</a></p><p>&copy; 2026 Full Court Buckets</p></div></footer></body></html>
